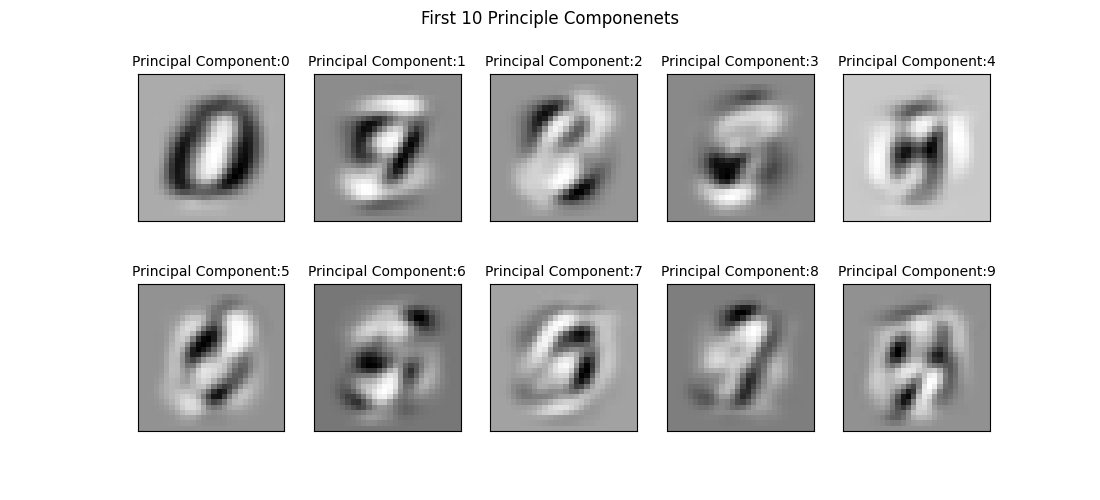
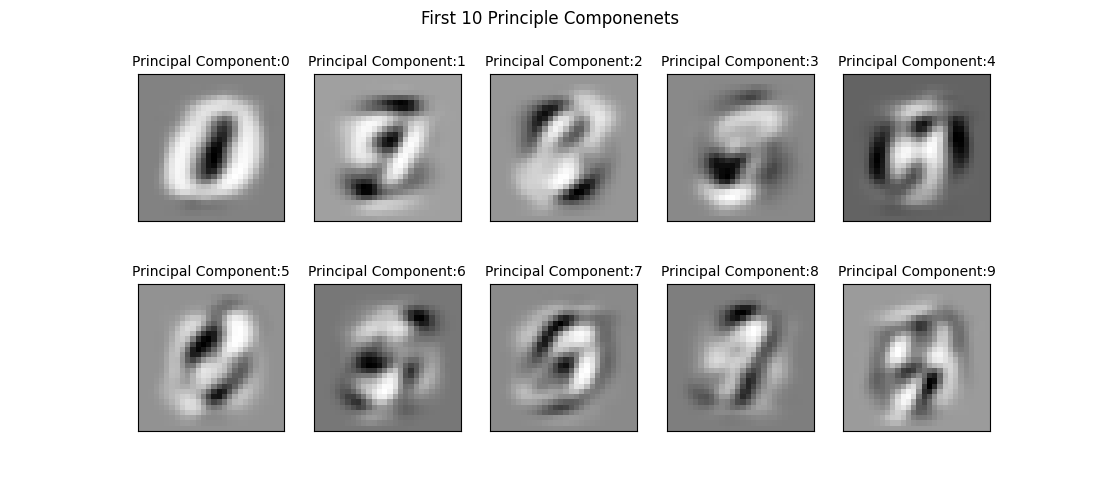
new pca images

diff --git a/hw5/T5_P2.py b/hw5/T5_P2.py
@@ -31,7 +31,7 @@ def get_cumul_var(mnist_pics, num_leading_components=500):
     """
     # Standardize
     # mnist_pics = (mnist_pics - np.mean(mnist_pics))/ np.std(mnist_pics)
-    mnist_pics = (mnist_pics - np.mean(mnist_pics))
+    mnist_pics = (mnist_pics - np.mean(mnist_pics, axis=0))
  
     S = np.cov(mnist_pics.T)
     values, vectors = np.linalg.eig(S)
@@ -44,8 +44,8 @@ def get_cumul_var(mnist_pics, num_leading_components=500):
         max_pos = np.argmax(value_list)
 
         # Save the eigenvalue and eigenvector
-        pc_list.append(vector_list[max_pos].real)
-        v_list.append(value_list[max_pos].real)
+        pc_list.append(vector_list[max_pos])
+        v_list.append(value_list[max_pos])
 
         del value_list[max_pos]
         del vector_list[max_pos]
@@ -84,6 +84,7 @@ def p2_2():
     plt.savefig("plots/2_2a.png")
     plt.show()
 
+    # plot PCAs
     fig = plt.figure(figsize=(11, 5))
     plt.tight_layout()
     ax = []
@@ -95,11 +96,12 @@ def p2_2():
         ax[-1].set_title("Principal Component:"+str(i), fontsize="10")  # set title
         plt.imshow(pc_list[i].reshape(28,28), cmap='Greys_r')
     
-    plt.setp(plt.gcf().get_axes(), xticks=[], yticks=[]);
-    # for i in range(10):
-    #     draw(pc_list[i])
+    plt.setp(plt.gcf().get_axes(), xticks=[], yticks=[])
     plt.savefig("plots/2_2b.png")
     plt.show()
+
+def p2_3():
+    pass
 
 if __name__ == "__main__":
     # Load MNIST.
